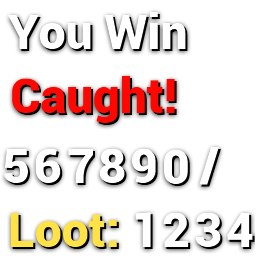
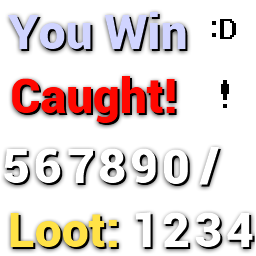
Added some emoticon bubbles, and made guards blitz when spotted (only end game when touching the player)

diff --git a/game.cpp b/game.cpp
@@ -270,6 +270,8 @@ public:
 
 	float playerspeed = 4.0f;
 
+	float emote_time = 0.0f;
+
 	Player()
 	{
 		//base default constructor - initialize everything in subclass Enemy below
@@ -287,13 +289,15 @@ public:
 		Occupy(player_destination);
 	}
 
-	~Player()
+	virtual ~Player()
 	{
 		delete player;
 	}
 
 	void Update(float dt)
 	{
+		emote_time -= dt;
+		if (emote_time < 0.0f) emote_time = 0.0f;
 
 		player_vel = glm::vec3();
 
@@ -355,7 +359,7 @@ public:
 
 	}
 
-	void EnteredSquare(vec3 position)
+	virtual void EnteredSquare(vec3 position)
 	{
 		MapDataItem &data = GetData(player->position);
 
@@ -368,6 +372,8 @@ public:
 
 			current_score ++;
 
+			emote_time = 2.0f;
+
 			data.has_loot = nullptr;
 		}
 	}
@@ -375,6 +381,7 @@ public:
 
 };
 
+Player *the_player = nullptr;
 
 class Enemy : public Player
 {
@@ -403,13 +410,21 @@ public:
 	}
 
 	int dir = 0;
+	bool on_alert = false;
+
 
 	bool waiting_cmd = false;
 	float thinking_delay;
 
 	void AI(float dt)
 	{
+		float delay1 = on_alert ? 0.2f : 0.4f;
+		float delay2 = on_alert ? 0.4f : 1.4f;
+		playerspeed = on_alert ? 4.0f : 1.0f;
+
 		//LOGf("AI - waiting_cmd = %s  transit = %.2f ", waiting_cmd ? "true":"false", player_intransit);
+
+		SearchForPlayer();
 
 		if (waiting_cmd) return;
 
@@ -426,10 +441,15 @@ public:
 
 		if (ClipPlayer(newpos))
 		{
+			if (IsPlayerAt(newpos))  //if a guard is touching a player
+			{
+				level_lost = true;
+			}
+
 			dir = (dir+1) % 4;
 			LOGf("AI command:  rotate to direction %d", dir);
 			player_destination_rotation -= 90.0f;
-			thinking_delay = 1.4f;
+			thinking_delay = delay2;
 			return;
 		}
 
@@ -437,11 +457,54 @@ public:
 		player_origin = player->position;
 		player_destination = newpos;
 		player_intransit = 0.0f;
-		thinking_delay = 0.4f;
+		thinking_delay = delay1;
 		waiting_cmd = true;
 
 		Unoccupy(player_origin);
 		Occupy(player_destination);
+
+	}
+
+	bool IsPlayerAt(vec3 newpos)
+	{
+		int playerx = the_player->player->position.x/2.0f;
+		int playery = the_player->player->position.z/2.0f;
+
+		int thisx = newpos.x / 2.0f;
+		int thisy = newpos.z / 2.0f;
+
+		return (thisx == playerx and thisy == playery);
+	}
+
+	void SearchForPlayer()
+	{
+		vec3 newpos = player->position;
+
+		int max_checks = 10;
+
+		for (int i=0; i< max_checks; ++i)
+		{
+
+			if (dir == 0) { newpos.z -= 2.0f; }
+			else if (dir == 1) { newpos.x += 2.0f; }
+			else if (dir == 2) { newpos.z += 2.0f; }
+			else if (dir == 3) { newpos.x -= 2.0f; }
+
+			//MapDataItem &d = GetData(newpos);
+
+
+			if (IsPlayerAt(newpos))
+			{
+				emote_time = 2.0f;
+
+				thinking_delay = 0.0f;
+
+				return;
+			}
+
+			if (ClipPlayer(newpos)) return;
+
+		}
 
 	}
 
@@ -451,14 +514,19 @@ public:
 
 		Player::Update(dt);
 
+		on_alert = emote_time > 0.0f;
+
 		waiting_cmd = player_intransit < 1.0f;
 	}
 
+	void EnteredSquare(vec3 position)
+	{
+		//do nothing, stops AI from picking up loot
+	}
 
 };
 
 
-Player *the_player = nullptr;
 vector<Enemy*> Enemies;
 
 
@@ -618,8 +686,12 @@ void ParseLevel(string filename)
 			lights.push_back( new Light(vec3(x, 1.0f, y), colour));
 		}
 
-		else if (etype == "playerstart" and the_player == nullptr)
+		else if (etype == "playerstart")
 		{
+			if (the_player != nullptr)
+			{
+				delete the_player;
+			}
 			the_player = new Player(x, y);
 		}
 
@@ -698,6 +770,10 @@ void Game::InitGL()
 	ui_0 = new Quad(*vbuff1, 8, 5, 9, 6, 10);
 	ui_slash =
 	       new Quad(*vbuff1, 8, 6, 9, 7, 10);
+
+	ui_smiley = new Quad(*vbuff1, 8, 6, 13, 8, 14);
+
+	ui_exclam = new Quad(*vbuff1, 8, 6, 3, 8, 4);
 
 	cam1 = new Camera();
 
@@ -810,6 +886,8 @@ void Game::DestroyGL()
 	delete ui_0;
 	delete ui_slash;
 
+	delete ui_exclam;
+	delete ui_smiley;
 
 	delete image_cell;
 	delete image_marble;
@@ -941,10 +1019,11 @@ void Game::Key(SDL_Keycode key, bool keydown)
 		running = false;
 	}
 
-	if (keydown and key == SDLK_F5)
+	if (keydown and ((key == SDLK_F5) or ((level_won or level_lost) and (key == SDLK_SPACE))))
 	{
 		level_loaded = false;  //reloads the level
 	}
+
 
 	if (keydown and key == SDLK_l)
 	{
@@ -1089,6 +1168,7 @@ void Game::Render()
 	prog2->SetTexture(image_cell);
 	the_player->player->Render(cam1, prog2);
 
+
 	for (auto e: entities)
 	{
 		SetLights(prog2, e->position);
@@ -1136,8 +1216,45 @@ void Game::RenderText(float offx, float offy, const string &txt)
 
 void Game::RenderGUI()
 {
-	prog1->Use(vbuff1);
+	glDisable(GL_DEPTH_TEST);
+	glEnable(GL_BLEND);
 
+	//glBlendFunc(GL_ONE, GL_ONE);
+	glBlendFunc(GL_SRC_ALPHA, GL_ONE_MINUS_SRC_ALPHA);
+
+	prog1->Use(vbuff1);
+	prog1->SetTexture(image_texts);
+
+	//check for speech bubbles
+
+	prog1->SetCamera(cam1);
+
+	if (the_player->emote_time > 0.0f )
+	{
+		vec3 pos = the_player->player->position;
+		mat4 model_matrix = glm::translate(mat4(), vec3(pos.x + 0.5f, pos.y + 1.0f, pos.z));
+		model_matrix = glm::scale(model_matrix, vec3(0.02f));
+
+		prog1->SetModel(model_matrix);
+		ui_smiley->Draw();
+		//LOG(":D");
+	}
+
+	for (auto e : Enemies)
+	{
+		if (e->emote_time > 0.0f )
+		{
+			vec3 pos = e->player->position;
+			mat4 model_matrix = glm::translate(mat4(), vec3(pos.x + 0.5f, pos.y + 1.0f, pos.z));
+			model_matrix = glm::scale(model_matrix, vec3(0.02f));
+
+			prog1->SetModel(model_matrix);
+			ui_exclam->Draw();
+		}
+	}
+
+
+	glBlendFunc(GL_SRC_ALPHA, GL_ONE_MINUS_SRC_ALPHA);
 
 	prog1->SetCamera(ortho1);
 
@@ -1149,13 +1266,10 @@ void Game::RenderGUI()
 
 	prog1->SetModel(model_matrix);
 
-	glDisable(GL_DEPTH_TEST);
-	glEnable(GL_BLEND);
-
-	glBlendFunc(GL_SRC_ALPHA, GL_ONE_MINUS_SRC_ALPHA);
 
 
-	prog1->SetTexture(image_texts);
+
+
 
 
 	ui_loot->Draw();

diff --git a/game.h b/game.h
@@ -53,6 +53,8 @@ public:
 	Quad *ui_0 = nullptr;
 	Quad *ui_slash = nullptr;
 
+	Quad *ui_smiley = nullptr;
+	Quad *ui_exclam = nullptr;
 
 	Image *image_cell = nullptr;
 	Image *image_marble = nullptr;
